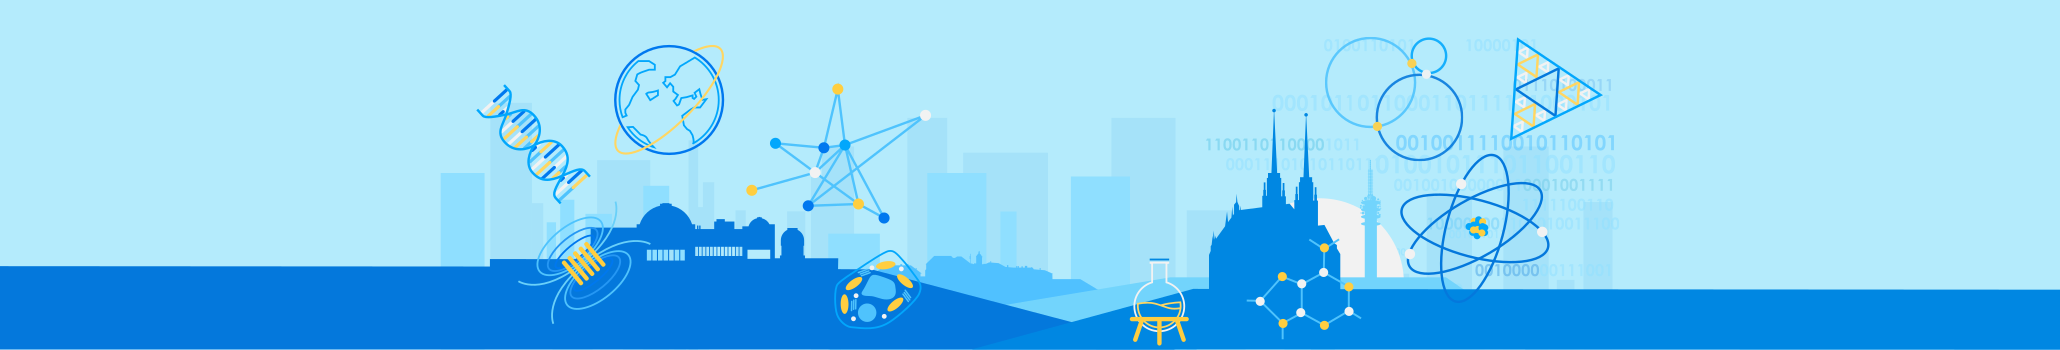
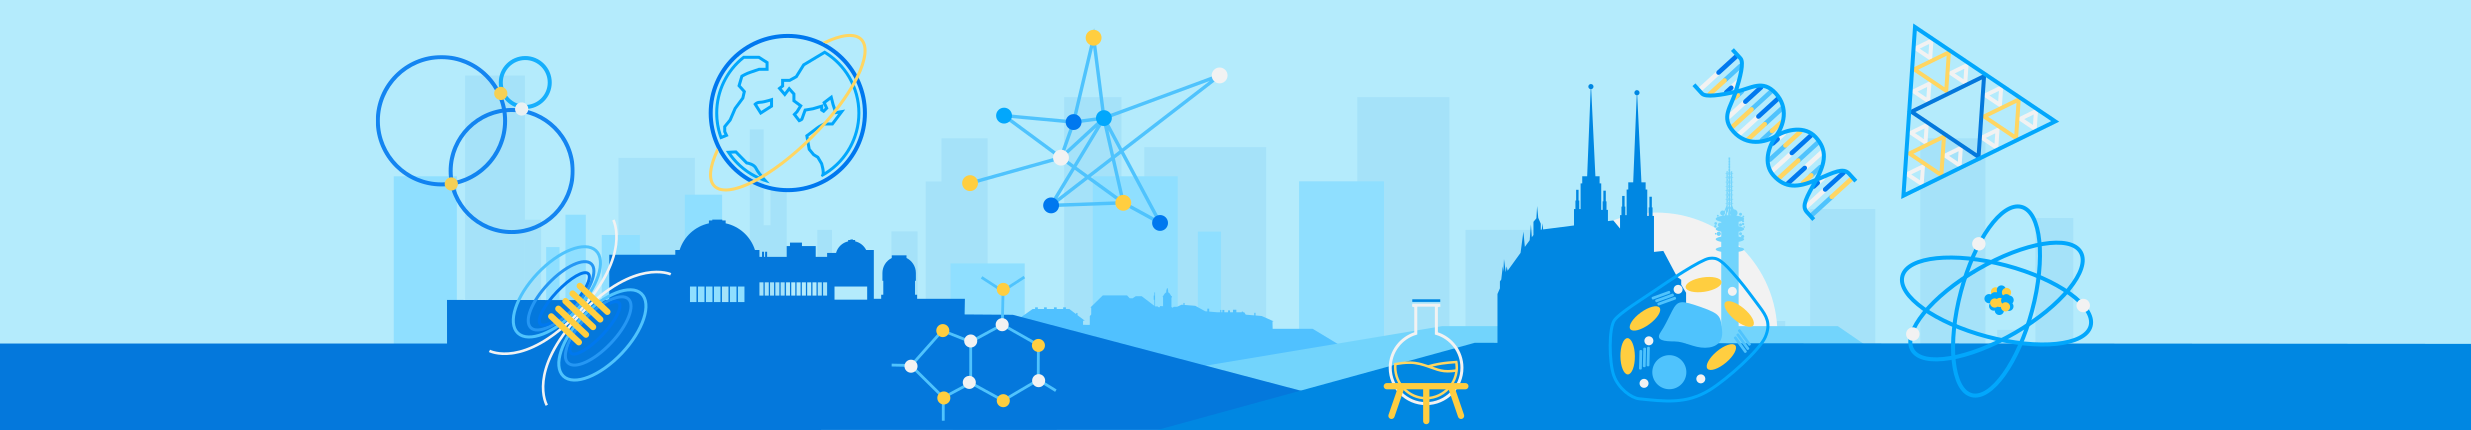
Update header background illustration.

diff --git a/css/header.css b/css/header.css
@@ -7,7 +7,7 @@
 }
 
 .header-photo {
-    height: 420px;
+    height: 430px;
     background: url('/static/header.png') center center no-repeat scroll;
     background-size: cover;
 }
